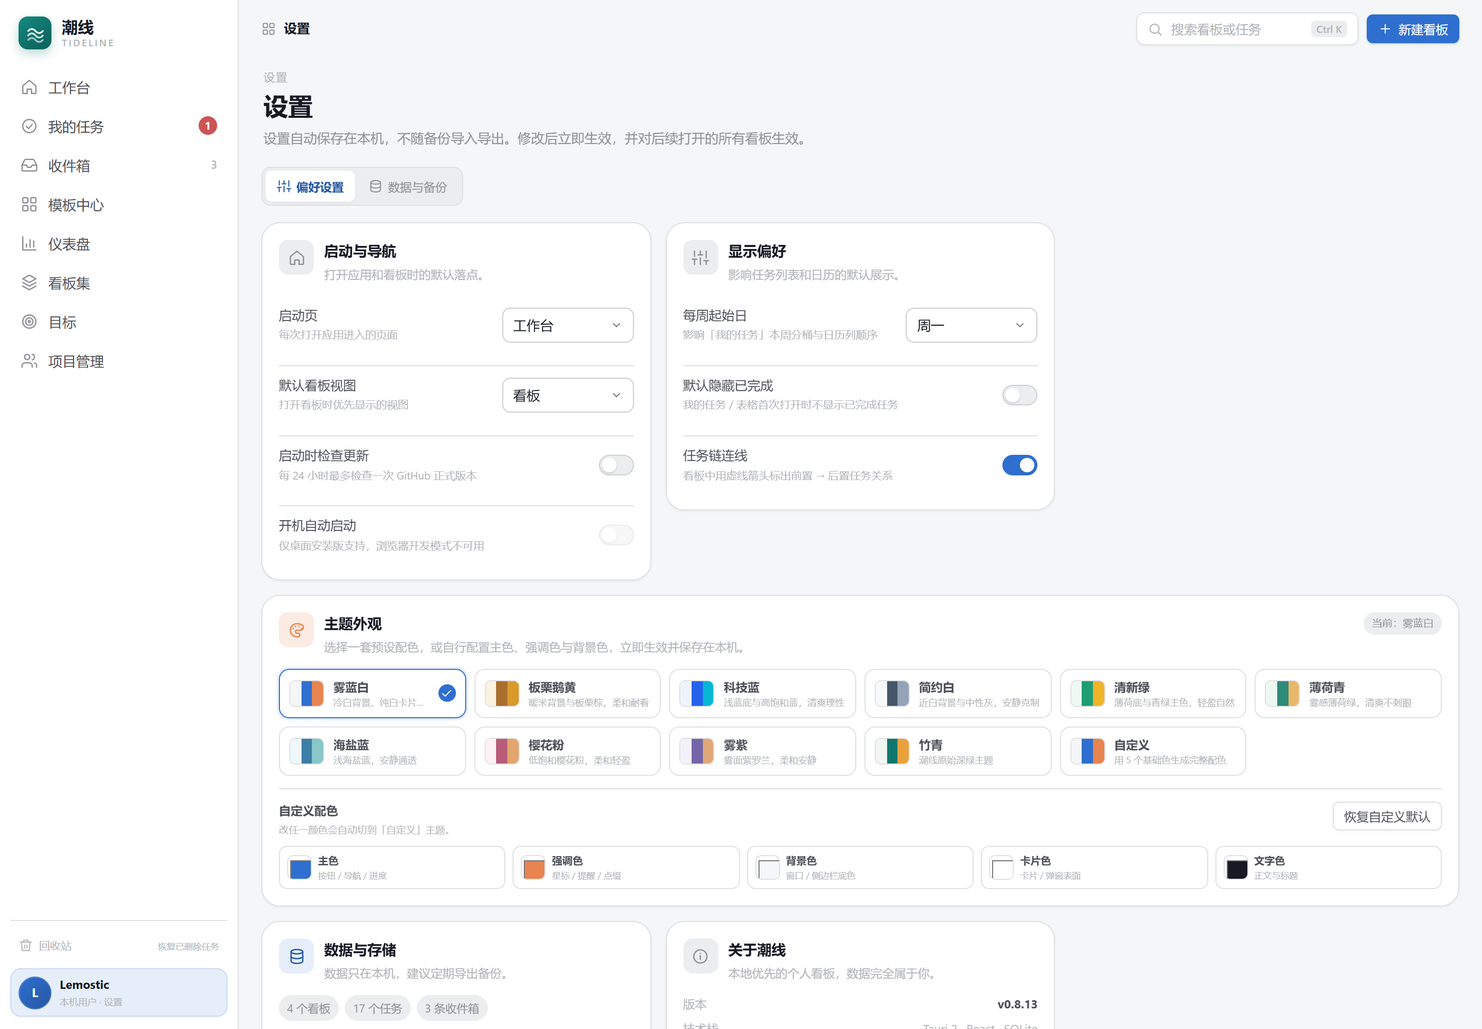
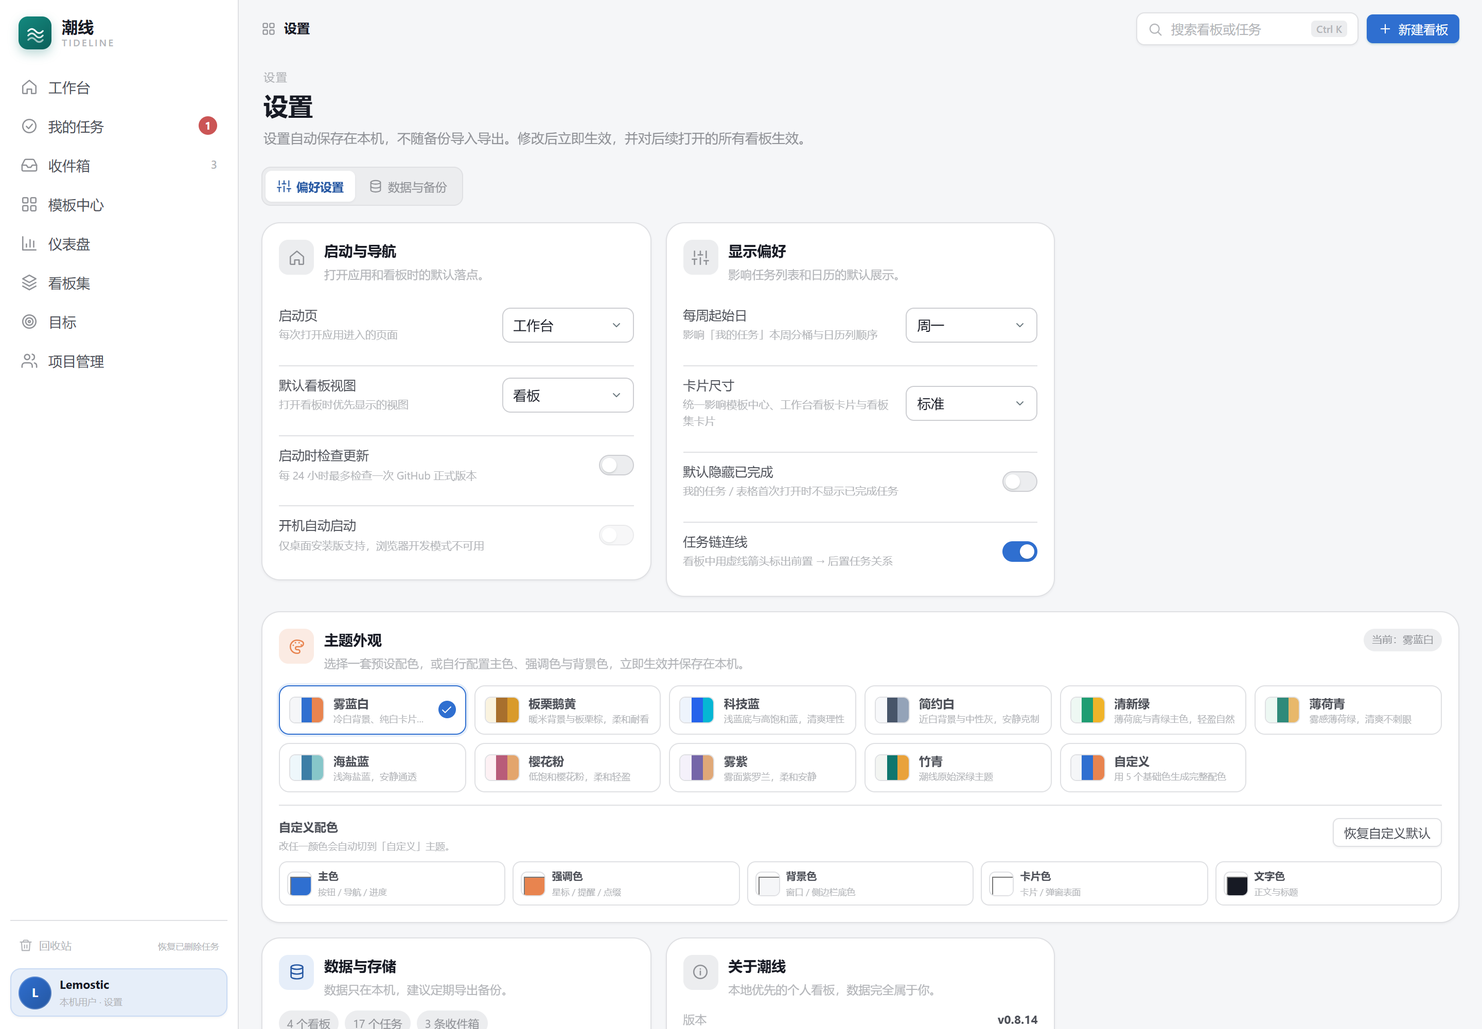
feat: V0.8.14 全局卡片尺寸配置
- 新增全局卡片尺寸设置：紧凑/标准/宽松三档，持久化到本机设置
- 新增 --card-min-width / --card-gap / --card-min-height / --card-cover-height 设计令牌
- 模板中心、工作台看板画廊、看板集卡片统一引用全局配置
- 模板卡片默认宽度与工作台看板卡片一致（280.5px / 4 列）
- 设置「显示偏好」新增卡片尺寸选择，首屏前恢复避免闪烁
- 新增卡片尺寸单元测试与 E2E，更新 README/开发计划/五版本规划/截图
- 安装包验证 0.8.13 自定义路径升级、0.8.14 全新安装/启动/卸载

diff --git a/src/lib/cardLayout.ts b/src/lib/cardLayout.ts
@@ -1,0 +1,71 @@
+/**
+ * 全局卡片尺寸配置（V0.8.14）。
+ *
+ * 卡片画廊（模板中心、工作台看板列表、看板集）统一引用这组 CSS 变量，
+ * 避免每处各自写 minmax/间距导致尺寸漂移。选择保存在设置里。
+ */
+
+export type CardSize = 'compact' | 'standard' | 'large';
+
+export interface CardSizeOption {
+  key: CardSize;
+  label: string;
+  description: string;
+  minWidth: number;
+  gap: number;
+  minHeight: number;
+  coverHeight: number;
+}
+
+export const CARD_SIZE_OPTIONS: CardSizeOption[] = [
+  {
+    key: 'compact',
+    label: '紧凑',
+    description: '一屏显示更多卡片',
+    minWidth: 220,
+    gap: 10,
+    minHeight: 120,
+    coverHeight: 78,
+  },
+  {
+    key: 'standard',
+    label: '标准',
+    description: '与工作台看板卡片一致',
+    minWidth: 252,
+    gap: 14,
+    minHeight: 140,
+    coverHeight: 98,
+  },
+  {
+    key: 'large',
+    label: '宽松',
+    description: '更大的封面与留白',
+    minWidth: 300,
+    gap: 16,
+    minHeight: 160,
+    coverHeight: 112,
+  },
+];
+
+export const DEFAULT_CARD_SIZE: CardSize = 'standard';
+
+export function normalizeCardSize(value: unknown): CardSize {
+  return CARD_SIZE_OPTIONS.some((option) => option.key === value)
+    ? (value as CardSize)
+    : DEFAULT_CARD_SIZE;
+}
+
+export function cardSizeOption(size: CardSize): CardSizeOption {
+  return CARD_SIZE_OPTIONS.find((option) => option.key === size) ?? CARD_SIZE_OPTIONS[1];
+}
+
+export function applyCardSize(size: CardSize): void {
+  if (typeof document === 'undefined') return;
+  const option = cardSizeOption(size);
+  const root = document.documentElement;
+  root.style.setProperty('--card-min-width', `${option.minWidth}px`);
+  root.style.setProperty('--card-gap', `${option.gap}px`);
+  root.style.setProperty('--card-min-height', `${option.minHeight}px`);
+  root.style.setProperty('--card-cover-height', `${option.coverHeight}px`);
+  root.dataset.cardSize = size;
+}

diff --git a/src/pages/SettingsPage.tsx b/src/pages/SettingsPage.tsx
@@ -3,6 +3,7 @@ import { useSearchParams } from 'react-router-dom';
 import { Icon } from '@/components/Icon';
 import { Modal } from '@/components/Modal';
 import { api } from '@/lib/api';
+import { CARD_SIZE_OPTIONS } from '@/lib/cardLayout';
 import { DEFAULT_CUSTOM_THEME, THEME_PRESETS, type ThemeBaseColors } from '@/lib/theme';
 import { formatRelativeTime } from '@/lib/date';
 import { RELEASES_PAGE } from '@/lib/update';
@@ -284,6 +285,27 @@ export function SettingsPage() {
             >
               <option value={1}>周一</option>
               <option value={0}>周日</option>
+            </select>
+          </label>
+
+          <label className="settings-row">
+            <span className="settings-row-label">
+              <span>卡片尺寸</span>
+              <span className="settings-row-hint">统一影响模板中心、工作台看板卡片与看板集卡片</span>
+            </span>
+            <select
+              className="select settings-select"
+              value={settings.cardSize}
+              onChange={(event) =>
+                settings.update({ cardSize: event.target.value as typeof settings.cardSize })
+              }
+              aria-label="卡片尺寸"
+            >
+              {CARD_SIZE_OPTIONS.map((option) => (
+                <option key={option.key} value={option.key}>
+                  {option.label}
+                </option>
+              ))}
             </select>
           </label>
 

diff --git a/src/App.tsx b/src/App.tsx
@@ -21,6 +21,7 @@ import { TemplatesPage } from '@/pages/TemplatesPage';
 import { TrashPage } from '@/pages/TrashPage';
 import { WorkbenchPage } from '@/pages/WorkbenchPage';
 import { useAppStore } from '@/store/appStore';
+import { applyCardSize } from '@/lib/cardLayout';
 import { applyTheme } from '@/lib/theme';
 import { useSettingsStore } from '@/store/settingsStore';
 import { useUiStore } from '@/store/uiStore';
@@ -34,6 +35,7 @@ export default function App() {
   const openSearch = useUiStore((state) => state.openSearch);
   const themeId = useSettingsStore((state) => state.themeId);
   const customTheme = useSettingsStore((state) => state.customTheme);
+  const cardSize = useSettingsStore((state) => state.cardSize);
 
   useEffect(() => {
     void init();
@@ -42,6 +44,10 @@ export default function App() {
   useEffect(() => {
     applyTheme(themeId, customTheme);
   }, [themeId, customTheme]);
+
+  useEffect(() => {
+    applyCardSize(cardSize);
+  }, [cardSize]);
 
   useEffect(() => {
     const onKeyDown = (event: KeyboardEvent) => {

diff --git a/src/store/settingsStore.ts b/src/store/settingsStore.ts
@@ -7,6 +7,11 @@
 import { create } from 'zustand';
 import type { BoardView } from '@/lib/types';
 import {
+  DEFAULT_CARD_SIZE,
+  normalizeCardSize,
+  type CardSize,
+} from '@/lib/cardLayout';
+import {
   DEFAULT_CUSTOM_THEME,
   DEFAULT_THEME_ID,
   normalizeCustomTheme,
@@ -36,6 +41,8 @@ export interface Settings {
   customTheme: ThemeBaseColors;
   /** 默认主题迁移版本：旧版板栗鹅黄默认值一次性升级为雾蓝白 */
   themeDefaultVersion: number;
+  /** 全局卡片尺寸，卡片画廊统一引用 */
+  cardSize: CardSize;
 }
 
 export const DEFAULT_SETTINGS: Settings = {
@@ -48,6 +55,7 @@ export const DEFAULT_SETTINGS: Settings = {
   themeId: DEFAULT_THEME_ID,
   customTheme: DEFAULT_CUSTOM_THEME,
   themeDefaultVersion: 2,
+  cardSize: DEFAULT_CARD_SIZE,
 };
 
 const STORAGE_KEY = 'tideline.settings.v1';
@@ -84,6 +92,7 @@ function normalize(raw: unknown): Settings {
     themeId,
     customTheme,
     themeDefaultVersion: 2,
+    cardSize: normalizeCardSize(value.cardSize),
   };
 }
 

diff --git a/src/pages/templates.css b/src/pages/templates.css
@@ -87,8 +87,8 @@
 /* ---------- 模板网格 ---------- */
 .tmpl-grid {
   display: grid;
-  grid-template-columns: repeat(auto-fill, minmax(238px, 1fr));
-  gap: 14px;
+  grid-template-columns: repeat(auto-fill, minmax(min(100%, var(--card-min-width, 252px)), 1fr));
+  gap: var(--card-gap, 14px);
 }
 
 .tmpl-card {
@@ -124,7 +124,7 @@
   position: relative;
   display: grid;
   place-items: center;
-  height: 98px;
+  height: var(--card-cover-height, 98px);
   overflow: hidden;
   border-bottom: 1px solid var(--line);
   background: linear-gradient(135deg, var(--tmpl-soft, #f4f7f3) 0%, #ffffff 96%);
@@ -411,8 +411,11 @@
 /* ---------- 响应式与动效偏好 ---------- */
 @media (max-width: 1080px) {
   .tmpl-grid {
-    grid-template-columns: repeat(auto-fill, minmax(218px, 1fr));
-    gap: 12px;
+    grid-template-columns: repeat(
+      auto-fill,
+      minmax(min(100%, var(--card-min-width, 252px)), 1fr)
+    );
+    gap: var(--card-gap, 14px);
   }
 }
 

diff --git a/src/pages/home.css b/src/pages/home.css
@@ -39,8 +39,8 @@
 /* ---------- 看板网格 ---------- */
 .home-grid {
   display: grid;
-  grid-template-columns: repeat(auto-fill, minmax(252px, 1fr));
-  gap: 14px;
+  grid-template-columns: repeat(auto-fill, minmax(min(100%, var(--card-min-width, 252px)), 1fr));
+  gap: var(--card-gap, 14px);
 }
 
 /* ---------- 看板卡片 ---------- */
@@ -48,7 +48,7 @@
   position: relative;
   display: flex;
   flex-direction: column;
-  min-height: 140px;
+  min-height: var(--card-min-height, 140px);
   padding: 15px 14px 13px 20px;
   border: 1px solid var(--line);
   border-radius: var(--radius-lg);
@@ -363,8 +363,11 @@
 /* ---------- 响应式与动效偏好 ---------- */
 @media (max-width: 1080px) {
   .home-grid {
-    grid-template-columns: repeat(auto-fill, minmax(228px, 1fr));
-    gap: 12px;
+    grid-template-columns: repeat(
+      auto-fill,
+      minmax(min(100%, var(--card-min-width, 252px)), 1fr)
+    );
+    gap: var(--card-gap, 14px);
   }
 }
 

diff --git a/src/lib/cardLayout.test.ts b/src/lib/cardLayout.test.ts
@@ -1,0 +1,22 @@
+import { describe, expect, it } from 'vitest';
+import {
+  CARD_SIZE_OPTIONS,
+  cardSizeOption,
+  DEFAULT_CARD_SIZE,
+  normalizeCardSize,
+} from '@/lib/cardLayout';
+
+describe('card layout config', () => {
+  it('默认使用标准尺寸，并对未知值回退', () => {
+    expect(DEFAULT_CARD_SIZE).toBe('standard');
+    expect(normalizeCardSize(undefined)).toBe('standard');
+    expect(normalizeCardSize('unknown')).toBe('standard');
+    expect(normalizeCardSize('compact')).toBe('compact');
+  });
+
+  it('三档尺寸宽度依次增大', () => {
+    expect(CARD_SIZE_OPTIONS.map((option) => option.minWidth)).toEqual([220, 252, 300]);
+    expect(cardSizeOption('compact').coverHeight).toBe(78);
+    expect(cardSizeOption('large').coverHeight).toBe(112);
+  });
+});

diff --git a/src/main.tsx b/src/main.tsx
@@ -1,14 +1,16 @@
 import { StrictMode } from 'react';
 import { createRoot } from 'react-dom/client';
 import App from './App';
+import { applyCardSize } from './lib/cardLayout';
 import { applyTheme } from './lib/theme';
 import { useSettingsStore } from './store/settingsStore';
 import './styles/tokens.css';
 import './styles/base.css';
 
-// 首帧前恢复主题，避免启动时先闪一下默认配色。
+// 首帧前恢复主题与全局卡片尺寸，避免启动时先闪一下默认布局。
 const initialSettings = useSettingsStore.getState();
 applyTheme(initialSettings.themeId, initialSettings.customTheme);
+applyCardSize(initialSettings.cardSize);
 
 createRoot(document.getElementById('root')!).render(
   <StrictMode>

diff --git a/src/styles/tokens.css b/src/styles/tokens.css
@@ -70,6 +70,12 @@
   --sidebar-w: 232px;
   --topbar-h: 56px;
 
+  /* 全局卡片尺寸：模板中心 / 工作台看板 / 看板集等画廊统一引用 */
+  --card-min-width: 252px;
+  --card-gap: 14px;
+  --card-min-height: 140px;
+  --card-cover-height: 98px;
+
   /* 动效 */
   --ease: cubic-bezier(0.22, 0.61, 0.36, 1);
   --transition: 150ms var(--ease);

diff --git a/src/pages/board-sets.css b/src/pages/board-sets.css
@@ -31,8 +31,8 @@
 
 .board-sets-grid {
   display: grid;
-  grid-template-columns: repeat(auto-fill, minmax(300px, 1fr));
-  gap: 14px;
+  grid-template-columns: repeat(auto-fill, minmax(min(100%, var(--card-min-width, 252px)), 1fr));
+  gap: var(--card-gap, 14px);
 }
 
 .board-set-card {

diff --git a/README.md b/README.md
@@ -30,14 +30,14 @@
 - **设置管理** —— **左下角 Profile 卡片（头像 + 用户名）**打开设置，不再占用左侧菜单；全局偏好页：启动页、默认看板视图、每周起始日、默认隐藏已完成、**任务链连线开关**；**桌面端支持自定义数据存储目录**（原生文件夹选择、数据库自动迁移、可恢复默认）；数据备份并入设置页；偏好保存在本机 localStorage，数据目录配置写入 `storage.json`，即时生效，可一键恢复默认
 - **我的任务** —— 按「已逾期 / 今天到期 / 本周到期 / 稍后到期 / 无截止日期」自动分组，逾期红色计数，支持看板筛选、排序、隐藏已完成；**五列等宽自适应**，2K 下与看板泳道同宽（约 445px）
 - **收件箱** —— 快速记录想法（`Ctrl/Cmd + Enter`），一键转为指定看板的任务
-- **模板中心** —— 14 个真实模板，分类筛选、预览大纲、一键生成看板
+- **模板中心** —— 14 个真实模板，分类筛选、预览大纲、一键生成看板；卡片尺寸与工作台看板卡片统一，由全局卡片配置控制
 - **宽屏布局** —— 各菜单不再限制 900~1400px 的固定主体宽度，主体区域铺满可用空间，减少左右空白
 - **本地优先** —— 桌面端 SQLite（WAL、本地单文件），浏览器开发态 localStorage，接口一致；V0.1 / V0.2 旧数据库启动时自动迁移，不丢数据
 - **安装包** —— NSIS 安装程序，**安装向导为简体中文**；安装时把安装目录写入注册表（`InstallDir` 与 Add/Remove Programs 的 `InstallLocation`），升级/重复安装自动沿用旧路径并覆盖安装，不会回到默认目录
 - **更新检查** —— 设置页可手动检查 GitHub 正式 Release，显示新版本、发布日期与说明，并一键打开发布页；可开启「启动时检查更新」（每 24 小时最多一次），发现新版本时顶栏显示提醒。**安装包签名完成前不静默下载安装**，始终由用户从发布页手动安装
 - **开机自动启动** —— 设置页可开启/关闭「开机自动启动」；桌面端写入当前用户 `HKCU\...\Run` 注册表，登录 Windows 后自动打开潮线，浏览器开发模式显示为不可用
 
-> 目标模块已完成；V0.4（任务依赖 / 备份 / 批量操作）、V0.5（仪表盘 / 看板集）、V0.6（目标 / 更新检查）、V0.7（看板个性化 / 工作台 / 双视图 / 开机启动）、V0.8.0（项目组资源）、V0.8.1（多项目 / 自定义角色 / 元数据）、V0.8.2（任务详情居中弹窗）、V0.8.3（多段投入记录）、V0.8.4（设置入口迁移 / 备份并入设置）、V0.8.5（主题系统）、V0.8.6（项目管理布局与命名）、V0.8.7（左下角 Profile 设置入口）、V0.8.8（任务详情紧凑表单）、V0.8.9（回收站降级为工具入口）、V0.8.10（移除冗余状态与按钮）、V0.8.11（甘特视图增强）、V0.8.12（新增四套清新亮色主题）、V0.8.13（雾蓝白默认主题）均已交付。
+> 目标模块已完成；V0.4（任务依赖 / 备份 / 批量操作）、V0.5（仪表盘 / 看板集）、V0.6（目标 / 更新检查）、V0.7（看板个性化 / 工作台 / 双视图 / 开机启动）、V0.8.0（项目组资源）、V0.8.1（多项目 / 自定义角色 / 元数据）、V0.8.2（任务详情居中弹窗）、V0.8.3（多段投入记录）、V0.8.4（设置入口迁移 / 备份并入设置）、V0.8.5（主题系统）、V0.8.6（项目管理布局与命名）、V0.8.7（左下角 Profile 设置入口）、V0.8.8（任务详情紧凑表单）、V0.8.9（回收站降级为工具入口）、V0.8.10（移除冗余状态与按钮）、V0.8.11（甘特视图增强）、V0.8.12（新增四套清新亮色主题）、V0.8.13（雾蓝白默认主题）、V0.8.14（全局卡片尺寸配置）均已交付。
 
 ### 界面预览
 
@@ -145,7 +145,7 @@
 
 ### 方式一：安装包（推荐）
 
-下载 `release/tideline-0.8.13-win64-setup.exe`，双击按向导安装即可（安装向导为简体中文）。
+下载 `release/tideline-0.8.14-win64-setup.exe`，双击按向导安装即可（安装向导为简体中文）。
 默认安装目录为 **`%LOCALAPPDATA%\Programs\Tideline`**（通常即 `C:\Users\<用户名>\AppData\Local\Programs\Tideline`；程序文件不再放进 Roaming 漫游目录），安装时仍可自选其它目录；
 **如果检测到旧版本，会自动带出旧版本的安装路径并默认覆盖安装，无需手动卸载旧版本**，升级后本地数据保持不变。
 安装器会创建开始菜单与桌面快捷方式，卸载可在「设置 → 应用」中完成。
@@ -158,7 +158,7 @@
 pnpm install
 pnpm tauri dev          # 桌面端开发模式
 pnpm tauri build --bundles nsis   # 打 NSIS 安装包
-# 产物：src-tauri/target/release/bundle/nsis/tideline_0.8.13_x64-setup.exe
+# 产物：src-tauri/target/release/bundle/nsis/tideline_0.8.14_x64-setup.exe
 ```
 
 浏览器里调试 UI（数据写 localStorage，与桌面端共用页面代码）：
@@ -190,7 +190,7 @@ pnpm dev   # http://127.0.0.1:5173
 | 样式 | 手写 CSS + 设计令牌（无 UI 框架、无网络字体，完全离线） |
 | 数据 | SQLite（rusqlite，bundled）+ Rust 命令层（55 个命令） |
 | 拖拽 | 看板用原生 HTML5 Drag & Drop；甘特/日历用 Pointer Events / HTML5 DnD（均无第三方依赖） |
-| 测试 | Vitest（73 例：日期分组、Markdown、筛选器、备份格式、任务依赖、连线布局、仪表盘聚合、目标进度、版本比较、团队统计、投入统计）、Rust `cargo test`（69 例）、Playwright 冒烟（本地验证） |
+| 测试 | Vitest（75 例：日期分组、Markdown、筛选器、备份格式、任务依赖、连线布局、仪表盘聚合、目标进度、版本比较、团队统计、投入统计、主题与卡片尺寸配置）、Rust `cargo test`（69 例）、Playwright 冒烟（本地验证） |
 
 前后端通过 55 个命令通信，契约定义在 [`src/lib/api.ts`](src/lib/api.ts)，桌面实现位于 [`src-tauri`](src-tauri)。
 
@@ -229,7 +229,7 @@ pnpm tauri build --bundles nsis   # Windows NSIS 安装包
 | V0.1（已完成） | 看板 / 我的任务 / 收件箱 / 模板中心 / 本地 SQLite |
 | V0.2（已完成） | 任务抽屉增强（子任务/标签/Markdown/起止日期）、表格视图、甘特视图、旧库自动迁移 |
 | **V0.3 / V0.3.1 / V0.3.2 / V0.3.3 / V0.3.4 / V0.3.5 / V0.3.6 / V0.3.7 / V0.3.8 / V0.4.0（已完成）** | 日历视图、看板内筛选器、任务回收站、NSIS 安装包、v3 数据库迁移；持续补丁优化卡片/拖拽/弹窗/表格层级、安装路径、桌面端拖拽、宽屏列宽与各菜单主体铺满 |
-| **V0.4.1 / V0.4.2 / V0.5.0 / V0.5.1 / V0.5.2 / V0.5.3 / V0.5.4 / V0.5.5 / V0.6.0 / V0.6.1 / V0.7.0 / V0.7.1 / V0.7.2 / V0.7.3 / V0.8.0 / V0.8.1 / V0.8.2 / V0.8.3 / V0.8.4 / V0.8.5 / V0.8.6 / V0.8.7 / V0.8.8 / V0.8.9 / V0.8.10 / V0.8.11 / V0.8.12 / V0.8.13（当前）** | V0.4 收尾：任务依赖、看板内批量操作；设置管理（启动页 / 默认视图 / 每周起始日 / 默认隐藏已完成 / 自定义数据目录 / 任务链连线）；V0.5 仪表盘与看板集；V0.5.5 中文安装向导与旧路径自动沿用；V0.6.0 目标树与进度回写；V0.6.1 更新检查与顶栏提醒；V0.7.0 卡片颜色、列表颜色/WIP、安装器注册表安装目录；V0.7.1 工作台门户与依赖箭头方向；V0.7.2 工作台/看板卡片列表视图切换；V0.7.3 开机自动启动；V0.8.0 项目组资源与绩效；V0.8.1 多项目、自定义角色与项目元数据；V0.8.2 任务详情居中弹窗（4:3、独立滚动）；V0.8.3 多段投入记录与项目投入统计；V0.8.4 设置入口移至左下角齿轮，数据备份并入设置；V0.8.5 主题外观与自定义配色；V0.8.6 项目管理列表布局与菜单改名；V0.8.7 左下角 Profile 入口；V0.8.8 任务详情紧凑表单；V0.8.9 回收站移至侧边栏底部工具区；V0.8.10 移除冗余本机状态与按钮；V0.8.11 甘特进度/依赖/工期；V0.8.12 新增薄荷青/海盐蓝/樱花粉/雾紫主题；V0.8.13 雾蓝白设为默认 |
+| **V0.4.1 / V0.4.2 / V0.5.0 / V0.5.1 / V0.5.2 / V0.5.3 / V0.5.4 / V0.5.5 / V0.6.0 / V0.6.1 / V0.7.0 / V0.7.1 / V0.7.2 / V0.7.3 / V0.8.0 / V0.8.1 / V0.8.2 / V0.8.3 / V0.8.4 / V0.8.5 / V0.8.6 / V0.8.7 / V0.8.8 / V0.8.9 / V0.8.10 / V0.8.11 / V0.8.12 / V0.8.13 / V0.8.14（当前）** | V0.4 收尾：任务依赖、看板内批量操作；设置管理（启动页 / 默认视图 / 每周起始日 / 默认隐藏已完成 / 自定义数据目录 / 任务链连线）；V0.5 仪表盘与看板集；V0.5.5 中文安装向导与旧路径自动沿用；V0.6.0 目标树与进度回写；V0.6.1 更新检查与顶栏提醒；V0.7.0 卡片颜色、列表颜色/WIP、安装器注册表安装目录；V0.7.1 工作台门户与依赖箭头方向；V0.7.2 工作台/看板卡片列表视图切换；V0.7.3 开机自动启动；V0.8.0 项目组资源与绩效；V0.8.1 多项目、自定义角色与项目元数据；V0.8.2 任务详情居中弹窗（4:3、独立滚动）；V0.8.3 多段投入记录与项目投入统计；V0.8.4 设置入口移至左下角齿轮，数据备份并入设置；V0.8.5 主题外观与自定义配色；V0.8.6 项目管理列表布局与菜单改名；V0.8.7 左下角 Profile 入口；V0.8.8 任务详情紧凑表单；V0.8.9 回收站移至侧边栏底部工具区；V0.8.10 移除冗余本机状态与按钮；V0.8.11 甘特进度/依赖/工期；V0.8.12 新增薄荷青/海盐蓝/樱花粉/雾紫主题；V0.8.13 雾蓝白设为默认；V0.8.14 全局卡片尺寸配置 |
 | V0.4（已完成） | 任务依赖、JSON 导入/导出与备份入口、看板内批量操作 |
 | V0.5（已完成） | 仪表盘统计、看板集（多板汇总表） |
 | V0.6（已完成） | 目标、更新检查；静默自动安装与代码签名待证书 |
@@ -255,6 +255,7 @@ pnpm tauri build --bundles nsis   # Windows NSIS 安装包
 
 | 版本 | 变更 |
 | --- | --- |
+| V0.8.14 | 新增全局卡片尺寸配置：设置可选紧凑 / 标准 / 宽松三档并持久化；模板中心、工作台看板画廊、看板集统一引用卡片最小宽度、间距、最小高度与封面高度令牌，模板卡片与工作台卡片同宽 |
 | V0.8.13 | 新增「雾蓝白」主题并设为默认：冷白灰背景、纯白侧边栏与卡片、清透蓝主色、暖橙点缀；旧默认板栗鹅黄一次性迁移，迁移后仍可手动选回；主题总数 10 套 + 自定义 |
 | V0.8.12 | 新增薄荷青、海盐蓝、樱花粉、雾紫四套低饱和清新亮色主题；内置主题由 5 套扩展至 9 套，全部自动派生柔和色、描边与阴影，切换即时生效并本地持久化 |
 | V0.8.11 | 甘特视图增强：任务条按子任务/完成状态显示进度与百分比；任务列显示起止日期、工期与逾期高亮；周视图日期头补星期；依赖任务之间绘制虚线曲线箭头，并跟随「任务链连线」设置 |

diff --git a/docs/开发计划.md b/docs/开发计划.md
@@ -121,6 +121,7 @@ V0.2 验收（已完成）：
 | V0.8.11 功能 | 甘特视图增强：任务条按子任务/完成状态显示进度与百分比；任务列显示起止日期与工期、逾期高亮；周视图日期头补星期；依赖任务绘制虚线贝塞尔箭头；联动「任务链连线」设置 |
 | V0.8.12 功能 | 新增四套低饱和清新亮色主题：薄荷青、海盐蓝、樱花粉、雾紫；内置主题从 5 套扩展至 9 套，全部走同一套基础色派生令牌 |
 | V0.8.13 功能 | 新增「雾蓝白」主题并设为默认：冷白灰背景、纯白侧边栏/卡片、清透蓝主色、暖橙点缀；旧默认板栗鹅黄做一次性迁移，之后手动选择可保留 |
+| V0.8.14 功能 | 全局卡片尺寸配置：设置新增紧凑/标准/宽松三档并持久化；模板中心、工作台看板画廊、看板集卡片统一引用 --card-min-width / --card-gap / --card-min-height / --card-cover-height 令牌 |
 
 V0.3 验收（已完成）：
 
@@ -324,6 +325,13 @@ V0.8.13 雾蓝白默认主题验收（已完成）：
 - [x] 旧版默认板栗鹅黄设置一次性迁移为雾蓝白
 - [x] 迁移后手动选择板栗鹅黄可保留
 - [x] 主题面板 10 套预设 + 自定义，全部可切换
+
+V0.8.14 全局卡片尺寸验收（已完成）：
+
+- [x] 模板中心卡片与工作台看板卡片同宽（默认 280.5px）
+- [x] 设置新增卡片尺寸紧凑/标准/宽松三档
+- [x] 模板中心、工作台看板、看板集共用同一组 CSS 令牌
+- [x] 切换紧凑后卡片变窄，刷新后保持
 
 ---
 
